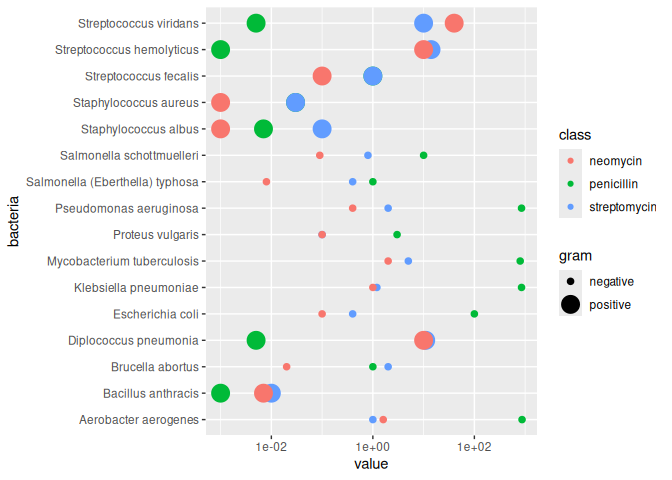
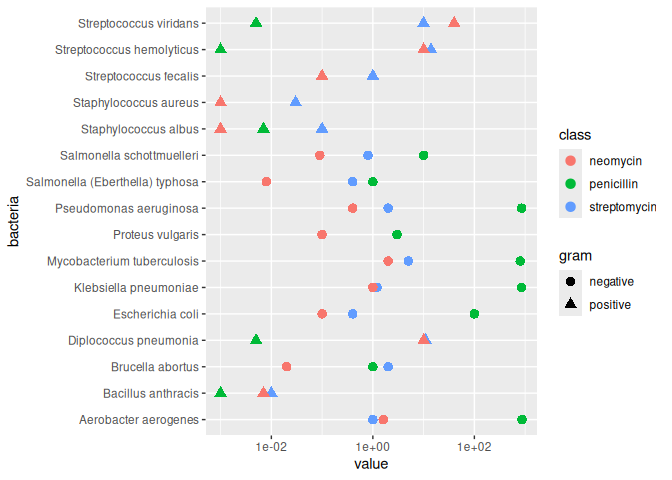
Challenge Revised

diff --git a/data-science-curriculum-build/data-science-curriculum-build/challenges/c05-antibiotics-assignment.md b/data-science-curriculum-build/data-science-curriculum-build/challenges/c05-antibiotics-assignment.md
@@ -187,13 +187,30 @@ df_longer <- df_antibiotics %>%
     values_to = "value",
     cols = c(penicillin, streptomycin, neomycin)
   )
-df_longer %>%
-  ggplot(aes(value, bacteria, color = class, size = gram)) +
-  scale_x_log10() +
-  geom_point()
+df_longer
 ```
 
-    ## Warning: Using size for a discrete variable is not advised.
+    ## # A tibble: 48 × 4
+    ##    bacteria              gram     class          value
+    ##    <chr>                 <chr>    <chr>          <dbl>
+    ##  1 Aerobacter aerogenes  negative penicillin   870    
+    ##  2 Aerobacter aerogenes  negative streptomycin   1    
+    ##  3 Aerobacter aerogenes  negative neomycin       1.6  
+    ##  4 Brucella abortus      negative penicillin     1    
+    ##  5 Brucella abortus      negative streptomycin   2    
+    ##  6 Brucella abortus      negative neomycin       0.02 
+    ##  7 Bacillus anthracis    positive penicillin     0.001
+    ##  8 Bacillus anthracis    positive streptomycin   0.01 
+    ##  9 Bacillus anthracis    positive neomycin       0.007
+    ## 10 Diplococcus pneumonia positive penicillin     0.005
+    ## # ℹ 38 more rows
+
+``` r
+df_longer %>%
+  ggplot(aes(value, bacteria, color = class, shape = gram)) +
+  scale_x_log10() +
+  geom_point(size = 3)
+```
 
 ![](c05-antibiotics-assignment_files/figure-gfm/q1.1-1.png)<!-- -->
 
